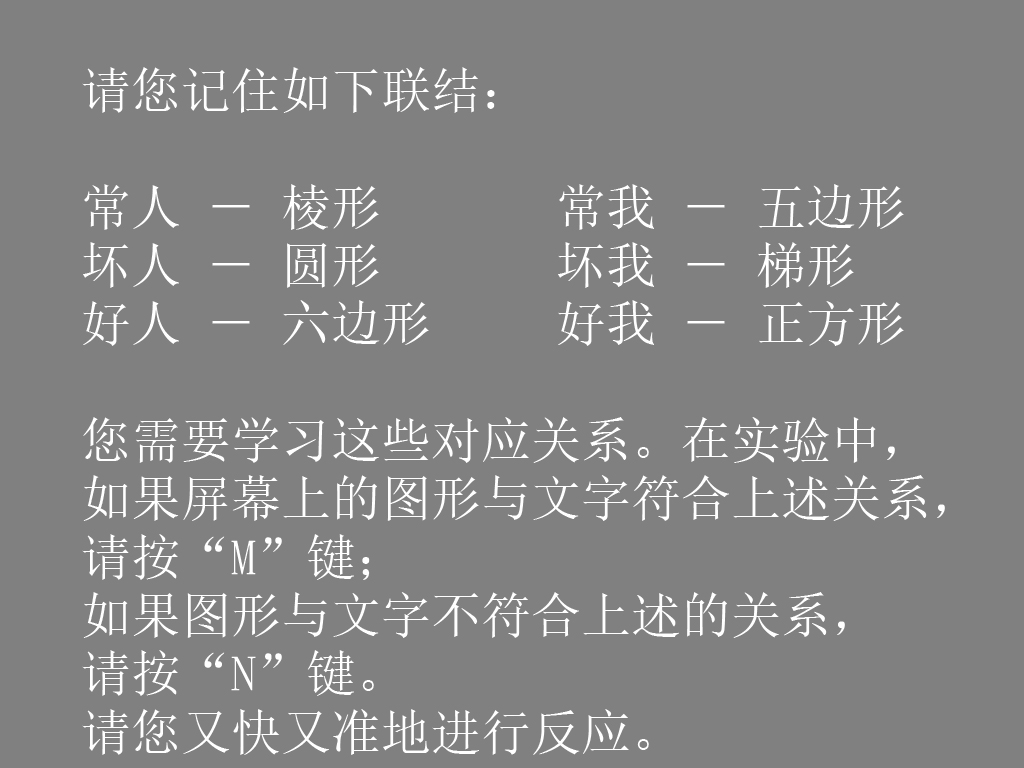
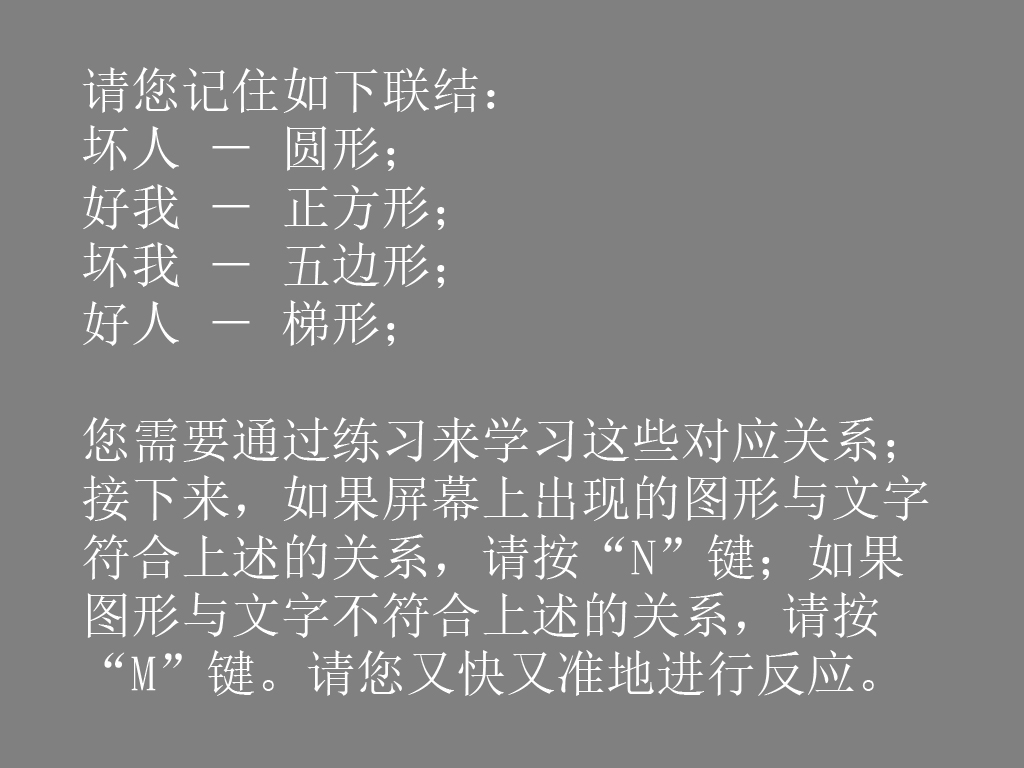
change back to 2 by 2 design, not finished yet

diff --git a/Moral_self_asso_exp7_rep_getParams.m b/Moral_self_asso_exp7_rep_getParams.m
@@ -26,80 +26,73 @@ params.dataDir = [params.rootDir '\data\'];
 % 12 elements for 6 condition * 2 response keys  
 % subject ID (1-12)            12    1     2     3     4     5     6     7     8    9     10     11 
 
+% balance the shape
+balanceMatrix.moralSelf = repmat({'C','S','P','Tra','C','S','P','Tra'},[1,9]);
+balanceMatrix.immoralSelf = repmat({'S','P','Tra','C','S','P','Tra','C'},[1,9]);
+balanceMatrix.moralOther = repmat({'P','Tra','C','S','P','Tra','C','S',},[1,9]);
+balanceMatrix.immoralOther = repmat({'Tra','C','S','P','Tra','C','S','P'},[1,9]);
 
-balanceMatrix.moralSelf    = {'C',  'S',  'P',  'Tra','H',  'D',  'C',  'S',  'P',  'Tra','H',  'D'  };
-balanceMatrix.neutralSelf  = {'S',  'P',  'Tra','H',  'D',  'C',  'S',  'P',  'Tra','H',  'D',  'C'  };
-balanceMatrix.immoralSelf  = {'P',  'Tra','H',  'D',  'C',  'S',  'P',  'Tra','H',  'D',  'C',  'S'  };
-balanceMatrix.moralOther   = {'Tra','H',  'D',  'C',  'S',  'P',  'Tra','H',  'D',  'C',  'S',  'P'  };
-balanceMatrix.neutralOther = {'H',  'D',  'C',  'S',  'P',  'Tra','H',  'D',  'C',  'S',  'P',  'Tra'};
-balanceMatrix.immoralOther = {'D',  'C',  'S',  'P',  'Tra','H',  'D',  'C',  'S',  'P',  'Tra','H'  };
-
-balanceMatrix.matchResp      = {'N','M','N','M','N','M','M','N','M','N','M','N'};  % response for "match" trials in match tasks
-balanceMatrix.mismatchResp   = {'M','N','M','N','M','N','N','M','N','M','N','M'};  % response for "mismatch" trials in match tasks
-balanceMatrix.selfResp       = {'H','J','H','J','H','J','J','H','J','H','J','H'};  % response for "self" trials in self-other categorization tasks
-balanceMatrix.otherResp      = {'J','H','J','H','J','H','H','J','H','J','H','J'};  % response for "other" trials in self-other categorization  in match tasks
-balanceMatrix.moralResp      = {'U','Y','U','Y','U','Y','Y','U','Y','U','Y','U'};  % response for "moral" trials in moral-otherwise categorization 
-balanceMatrix.notmoralResp   = {'Y','U','Y','U','Y','U','U','Y','U','Y','U','Y'};  % response for "moral" trials in moral-otherwise categorization 
-balanceMatrix.immoralResp    = {'O','P','O','P','O','P','P','O','P','O','P','O'};  % response for "immoral" trials in immoral-otherwise categorization 
-balanceMatrix.notimmoralResp = {'P','O','P','O','P','O','O','P','O','P','O','P'};  % response for "immoral" trials in immoral-otherwise categorization 
+% balance responding keys
+balanceMatrix.matchResp    = repmat({'N','N','N','N','M','M','M','M'},[1,9]);  % response for "match" trials in match tasks
+balanceMatrix.mismatchResp = repmat({'M','M','M','M','N','N','N','N'},[1,9]);  % response for "mismatch" trials in match tasks
+balanceMatrix.selfResp     = repmat({'H','J','J','J','H','H','H','J'},[1,9]);  % response for "self" trials in self-other categorization tasks
+balanceMatrix.otherResp    = repmat({'J','H','H','H','J','J','J','H'},[1,9]);  % response for "other" trials in self-other categorization  in match tasks
+balanceMatrix.moralResp    = repmat({'U','U','Y','Y','Y','U','U','U'},[1,9]);  % response for "moral" trials in self-other categorization 
+balanceMatrix.immoralResp  = repmat({'Y','Y','U','U','U','Y','Y','Y'},[1,9]);  % response for "immoral" trials in self-other categorization 
+balanceMatrix.importResp   = repmat({'O','O','O','P','P','P','O','O'},[1,9]);  % response for "important" trials in self-other categorization 
+balanceMatrix.unimportResp = repmat({'P','P','P','O','O','O','P','P'},[1,9]);  % response for "unimportant" trials in self-other categorization 
 
 % balance categorization tasks
-% 6 elements * 2 repetition = 12 conditions
-balanceMatrix.block1 = repmat({'self',    'moral',   'immoral', 'moral',   'immoral', 'self',  },[1,2]);  % counterbalance the categorization task
-balanceMatrix.block2 = repmat({'moral',   'immoral', 'self',    'self',    'moral',   'immoral'},[1,2]);
-balanceMatrix.block3 = repmat({'immoral', 'self',    'moral',   'immoral', 'self',    'moral'  },[1,2]);
-balanceMatrix.block4 = repmat({'moral',   'immoral', 'self',    'immoral', 'moral',   'self'   },[1,2]);
-balanceMatrix.block5 = repmat({'immoral', 'self',    'moral',   'self',    'immoral'  'moral'  },[1,2]);
-balanceMatrix.block6 = repmat({'self',    'moral',   'immoral', 'moral'    'self',    'immoral'},[1,2]);
+balanceMatrix.block1 = repmat({'self','moral','moral','self','importance','self','moral'},[1,8]);  % counterbalance the categorization task
+balanceMatrix.block2 = repmat({'moral','importance','self','importance','self','moral','self','moral','importance'},[1,8]);
+balanceMatrix.block3 = repmat({'importance','self','moral','self','moral','importance','moral','importance','self'},[1,8]);
+balanceMatrix.block4 = repmat({'moral','importance','self','importance','self','moral','self','moral','importance'},[1,8]);
+balanceMatrix.block5 = repmat({'importance','self','moral','self','moral','importance','moral','importance','self'},[1,8]);
+balanceMatrix.block6 = repmat({'self','moral','importance','moral','importance','self','importance','self','moral'},[1,8]);
+balanceMatrix.block7 = repmat({'importance','self','moral','self','moral','importance','moral','importance','self'},[1,8]);
+balanceMatrix.block8 = repmat({'self','moral','importance','moral','importance','self','importance','self','moral'},[1,8]);
+balanceMatrix.block9 = repmat({'moral','importance','self','importance','self','moral','self','moral','importance'},[1,8]);
 
 % assign picture and response keys to current participants
-subIndex = mod(subID,12) + 1;
-params.moralSelfPicName   = balanceMatrix.moralSelf(subIndex); 
-params.moralSelfPicName   = params.moralSelfPicName{1};    % convert cell to char
-params.neutralSelfPicName = balanceMatrix.neutralSelf(subIndex); 
-params.neutralSelfPicName = params.neutralSelfPicName{1};    % convert cell to char
-params.immoralSelfPicName = balanceMatrix.immoralSelf(subIndex);
-params.immoralSelfPicName = params.immoralSelfPicName{1};
-
+subIndex = mod(subID,72) + 1;
+params.moralSelfPicName    = balanceMatrix.moralSelf(subIndex); 
+params.moralSelfPicName    = params.moralSelfPicName{1};    % convert cell to char
+params.immoralSelfPicName  = balanceMatrix.immoralSelf(subIndex);
+params.immoralSelfPicName  = params.immoralSelfPicName{1};
 params.moralOtherPicName   = balanceMatrix.moralOther(subIndex);
 params.moralOtherPicName   = params.moralOtherPicName{1};
-params.neutralOtherPicName = balanceMatrix.neutralOther(subIndex);
-params.neutralOtherPicName = params.neutralOtherPicName{1};
 params.immoralOtherPicName = balanceMatrix.immoralOther(subIndex);
 params.immoralOtherPicName = params.immoralOtherPicName{1};
 
 KbName('UnifyKeyNames');
-params.matchResponKey      = KbName(balanceMatrix.matchResp(subIndex));      % match
-params.mismatchResponKey   = KbName(balanceMatrix.mismatchResp(subIndex));   % non-match
-params.selfResponKey       = KbName(balanceMatrix.selfResp(subIndex));       % self
-params.otherResponKey      = KbName(balanceMatrix.otherResp(subIndex));      % other
-params.moralResponKey      = KbName(balanceMatrix.moralResp(subIndex));      % moral
-params.notmoralResponKey   = KbName(balanceMatrix.notmoralResp(subIndex));   % not-moral
-params.immoralResponKey    = KbName(balanceMatrix.immoralResp(subIndex));    % immoral
-params.notimmoralResponKey = KbName(balanceMatrix.notimmoralResp(subIndex)); % not-immoral
+params.matchResponKey    = KbName(balanceMatrix.matchResp(subIndex));         % match
+params.mismatchResponKey = KbName(balanceMatrix.mismatchResp(subIndex));   % non-match,other
+params.selfResponKey     = KbName(balanceMatrix.selfResp(subIndex));         % self
+params.otherResponKey    = KbName(balanceMatrix.otherResp(subIndex));   % other
+params.moralResponKey    = KbName(balanceMatrix.moralResp(subIndex));         % moral
+params.immoralResponKey  = KbName(balanceMatrix.immoralResp(subIndex));   % immoral
+params.importResponKey   = KbName(balanceMatrix.importResp(subIndex));         % important
+params.unimportResponKey = KbName(balanceMatrix.unimportResp(subIndex));   % unimportant
 
 params.escapeKey = KbName('ESCAPE');
 params.spaceKey = KbName('SPACE');
 
 % assign block to current paricipants 
 params.taskMatrix = {balanceMatrix.block1(subIndex),balanceMatrix.block2(subIndex),balanceMatrix.block3(subIndex),...
-         balanceMatrix.block4(subIndex),balanceMatrix.block5(subIndex),balanceMatrix.block6(subIndex)};
+         balanceMatrix.block4(subIndex),balanceMatrix.block5(subIndex),balanceMatrix.block6(subIndex),...
+         balanceMatrix.block7(subIndex),balanceMatrix.block8(subIndex),balanceMatrix.block9(subIndex)};
 
 % Load the images corresponding to each condition
 cd(params.stimDir);
 params.moralSelf    = imread([params.moralSelfPicName '.bmp']);
-params.neutralSelf  = imread([params.neutralSelfPicName '.bmp']);
 params.immoralSelf  = imread([params.immoralSelfPicName '.bmp']);
 params.moralOther   = imread([params.moralOtherPicName '.bmp']);
-params.neutralOther = imread([params.neutralOtherPicName '.bmp']);
 params.immoralOther = imread([params.immoralOtherPicName '.bmp']);
 
 % load images of labels
 params.labelmoralSelf    = imread(['moralSelf','.bmp']);
-params.labelneutralSelf  = imread(['neutralSelf','.bmp']);
 params.labelimmoralSelf  = imread(['immoralSelf','.bmp']);
 params.labelmoralOther   = imread(['moralOther','.bmp']);
-params.labelneutralOther = imread(['neutralOther','.bmp']);
 params.labelimmoralOther = imread(['immoralOther','.bmp']);
     
 % Load Intructions for each participant

diff --git a/readme.md b/readme.md
@@ -52,7 +52,7 @@ History: Based on my previous stuy;
  4. Moral_self_asso_exp7_rep_categ
 
 Experimental design for the categorization task: 
- 2 (id: self vs. other) * 3 (moral valence: postive, neutral, vs. negative) *
+ 2 (id: self vs. other) * 2 (moral valence: postive vs. negative) *
  2 categorization task(tasks type: morality, self)
 
 #### Input variables
@@ -60,6 +60,7 @@ Experimental design for the categorization task:
 
 #### output file
   data_exp7_rep_subBalance_(subNo.).out  % this record counterbalance info
+  data_exp7_rep_prac_(subNo.).out        % record the data during practice
   data_exp7_rep_match_(subNo.).out       % record the matching task data
   data_exp7_rep_categ_(subNo.).out       % record the categorization
                                            results
@@ -71,16 +72,16 @@ Experimental design for the categorization task:
  Second,Categorization phase, judge the category of stimuli according to
  criteria.
  
- Differences from exp7:
+### Differences from exp7:
 
  Items          replication    original
 
  =============  =============  ==========
 
- Moral valence  three levels    two levels
+ Moral valence  two levels     two levels
 
- Categ. task    two tasks       three tasks
+ Categ. task    two tasks      three tasks
 
- feedback       words           schema faces
+ feedback       words          schema faces
 
- dur.for categ.  100ms          200ms 
+ dur.for categ.  100ms         200ms 
